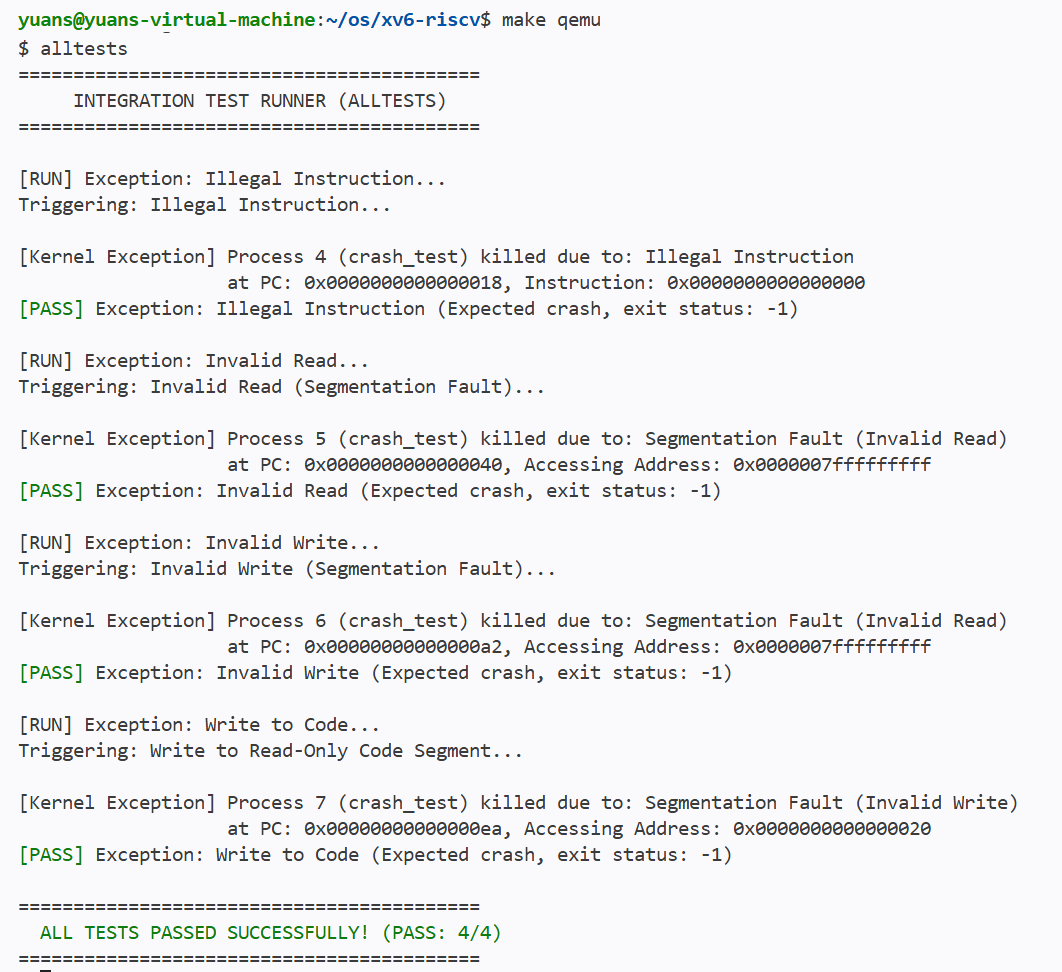
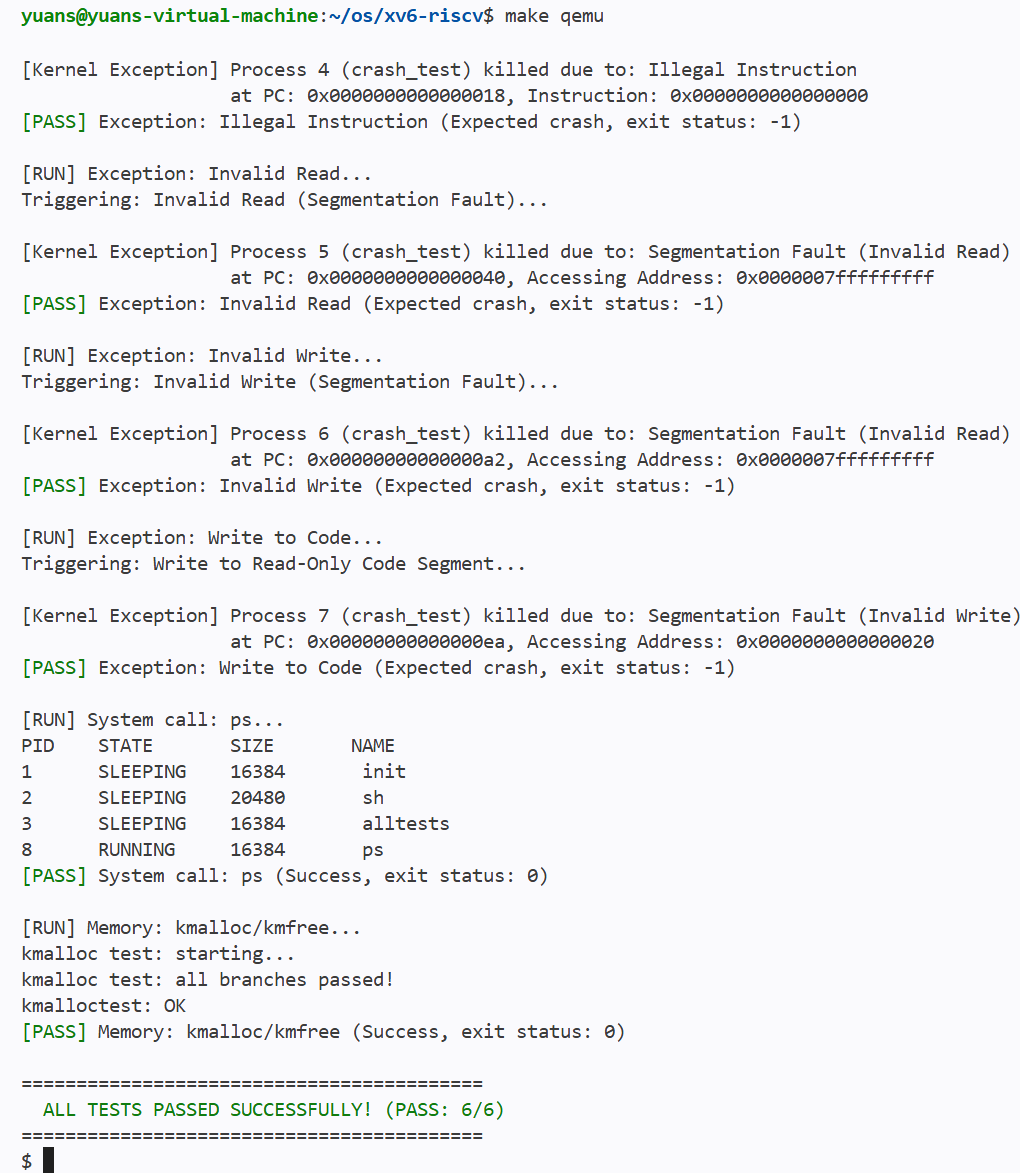
completed phase 2: implemented kmalloc/kmfree allocator and verified 6/6 tests

diff --git a/kernel/kalloc.c b/kernel/kalloc.c
@@ -80,3 +80,164 @@ kalloc(void)
     memset((char*)r, 5, PGSIZE); // fill with junk
   return (void*)r;
 }
+
+// 基于 First-Fit 的内核堆内存分配器 (kmalloc/kmfree)
+struct kmem_header {
+  uint64 size;              // 内存块大小（不含首部）
+  struct kmem_header *next; // 指向下一个块
+  int is_free;              // 是否空闲
+};
+
+struct {
+  struct spinlock lock;
+  struct kmem_header *head;
+} kmalloc_mem;
+
+// 初始化 kmalloc 自旋锁
+void
+kmalloc_init(void)
+{
+  initlock(&kmalloc_mem.lock, "kmalloc");
+  kmalloc_mem.head = 0;
+}
+
+void*
+kmalloc(uint64 size)
+{
+  if(size == 0)
+    return 0;
+
+  // 对齐到 8 字节
+  size = (size + 7) & ~7;
+
+  acquire(&kmalloc_mem.lock);
+
+  struct kmem_header *curr = kmalloc_mem.head;
+
+  // 1. 尝试在现有链表中寻找满足大小的空闲块
+  while(curr) {
+    if(curr->is_free && curr->size >= size) {
+      // 如果块足够大，将其拆分
+      if(curr->size >= size + sizeof(struct kmem_header) + 8) {
+        struct kmem_header *new_block = (struct kmem_header*)((char*)curr + sizeof(struct kmem_header) + size);
+        new_block->size = curr->size - size - sizeof(struct kmem_header);
+        new_block->is_free = 1;
+        new_block->next = curr->next;
+
+        curr->size = size;
+        curr->next = new_block;
+      }
+      curr->is_free = 0;
+      release(&kmalloc_mem.lock);
+      return (void*)(curr + 1); // 返回首部之后的实际数据地址
+    }
+    curr = curr->next;
+  }
+
+  // 2. 链表中无满足条件的块，调用页分配器申请一个新的 4KB 物理页
+  release(&kmalloc_mem.lock);
+  void *page = kalloc();
+  if(page == 0)
+    return 0;
+
+  acquire(&kmalloc_mem.lock);
+  struct kmem_header *new_page_block = (struct kmem_header*)page;
+  new_page_block->size = PGSIZE - sizeof(struct kmem_header);
+  new_page_block->is_free = 1;
+  new_page_block->next = 0;
+
+  // 挂载新页到链表头部
+  new_page_block->next = kmalloc_mem.head;
+  kmalloc_mem.head = new_page_block;
+
+  // 3. 重新对新申请的页空间进行拆分并分配
+  curr = new_page_block;
+  if(curr->size >= size + sizeof(struct kmem_header) + 8) {
+    struct kmem_header *new_block = (struct kmem_header*)((char*)curr + sizeof(struct kmem_header) + size);
+    new_block->size = curr->size - size - sizeof(struct kmem_header);
+    new_block->is_free = 1;
+    new_block->next = curr->next;
+
+    curr->size = size;
+    curr->next = new_block;
+  }
+  curr->is_free = 0;
+  release(&kmalloc_mem.lock);
+  return (void*)(curr + 1);
+}
+
+void
+kmfree(void *addr)
+{
+  if(addr == 0)
+    return;
+
+  struct kmem_header *header = (struct kmem_header*)addr - 1;
+
+  acquire(&kmalloc_mem.lock);
+  header->is_free = 1;
+
+  // 4. 合并物理上连续的相邻空闲块
+  struct kmem_header *curr = kmalloc_mem.head;
+  while(curr) {
+    if(curr->is_free && curr->next && curr->next->is_free) {
+      // 如果当前块末尾刚好是下一个块的起始，说明物理连续
+      if((char*)curr + sizeof(struct kmem_header) + curr->size == (char*)curr->next) {
+        curr->size += sizeof(struct kmem_header) + curr->next->size;
+        curr->next = curr->next->next;
+        continue; // 重新检查新的下一个块
+      }
+    }
+    curr = curr->next;
+  }
+  release(&kmalloc_mem.lock);
+}
+
+// 内核态单元测试：验证分配器的正确性与分支覆盖
+int
+kmalloctest_run(void)
+{
+  printf("kmalloc test: starting...\n");
+
+  // 1. 测试空指针安全
+  kmfree(0);
+
+  // 2. 测试基本分配、写入与 8 字节对齐
+  char *p1 = kmalloc(5); 
+  if(p1 == 0){
+    printf("test failed: p1 is null\n");
+    return -1;
+  }
+  memset(p1, 0xAA, 5); // 确保写入不崩溃
+
+  char *p2 = kmalloc(8);
+  if(p2 == 0){
+    printf("test failed: p2 is null\n");
+    return -1;
+  }
+
+  // 3. 测试 First-Fit 地址复用
+  uint64 addr_p1 = (uint64)p1;
+  kmfree(p1); // 释放 p1
+  
+  char *p3 = kmalloc(8); // 重新申请，应当复用刚刚释放的 p1 地址
+  if((uint64)p3 != addr_p1){
+    printf("test failed: failed to reuse freed address\n");
+    return -1;
+  }
+
+  // 4. 测试相邻空闲块合并
+  kmfree(p3);
+  kmfree(p2); // 释放相邻的 p2，此时 p3 和 p2 应合并
+
+  // 5. 测试跨页大内存申请 (大于 4KB，触发底层 kalloc)
+  char *p4 = kmalloc(5000); 
+  if(p4 == 0){
+    printf("test failed: p4 (large allocation) is null\n");
+    return -1;
+  }
+  kmfree(p4);
+
+  printf("kmalloc test: all branches passed!\n");
+  return 0;
+}

diff --git a/kernel/syscall.c b/kernel/syscall.c
@@ -102,6 +102,7 @@ extern uint64 sys_link(void);
 extern uint64 sys_mkdir(void);
 extern uint64 sys_close(void);
 extern uint64 sys_getprocs(void);
+extern uint64 sys_kmalloctest(void);
 
 // An array mapping syscall numbers from syscall.h
 // to the function that handles the system call.
@@ -128,6 +129,7 @@ static uint64 (*syscalls[])(void) = {
 [SYS_mkdir]   sys_mkdir,
 [SYS_close]   sys_close,
 [SYS_getprocs]   sys_getprocs,
+[SYS_kmalloctest] sys_kmalloctest,
 };
 
 void

diff --git a/user/alltests.c b/user/alltests.c
@@ -15,7 +15,7 @@ struct test_case tests[] = {
   { "Exception: Invalid Write", "crash_test", {"crash_test", "3", 0}, -1 },
   { "Exception: Write to Code", "crash_test", {"crash_test", "4", 0}, -1 },
   { "System call: ps", "ps", {"ps", 0}, 0 },
-
+  { "Memory: kmalloc/kmfree", "kmalloctest", {"kmalloctest", 0}, 0 },
   // { "Official: usertests", "usertests", {"usertests", 0}, 0 }
 };
 

diff --git a/kernel/main.c b/kernel/main.c
@@ -17,6 +17,7 @@ main()
     printf("xv6 kernel is booting\n");
     printf("\n");
     kinit();         // physical page allocator
+    kmalloc_init();  // Kernel Byte-level Heap Allocator // phase2 add
     kvminit();       // create kernel page table
     kvminithart();   // turn on paging
     procinit();      // process table

diff --git a/kernel/defs.h b/kernel/defs.h
@@ -63,6 +63,9 @@ void            ramdiskrw(struct buf*);
 void*           kalloc(void);
 void            kfree(void *);
 void            kinit(void);
+void            kmalloc_init(void); 
+void*           kmalloc(uint64);   
+void            kmfree(void*);   
 
 // log.c
 void            initlog(int, struct superblock*);

diff --git a/user/kmalloctest.c b/user/kmalloctest.c
@@ -1,0 +1,13 @@
+#include "kernel/types.h"
+#include "user/user.h"
+
+int
+main(int argc, char *argv[])
+{
+  if(kmalloctest() < 0){
+    printf("kmalloctest: failed\n");
+    exit(1);
+  }
+  printf("kmalloctest: OK\n");
+  exit(0);
+}

diff --git a/user/user.h b/user/user.h
@@ -30,6 +30,7 @@ char* sbrk(int);
 int sleep(int);
 int uptime(void);
 int getprocs(int, struct uproc*);
+int kmalloctest(void);
 
 // ulib.c
 int stat(const char*, struct stat*);

diff --git a/kernel/sysproc.c b/kernel/sysproc.c
@@ -135,3 +135,10 @@ sys_getprocs(void)
 
   return count; 
 }
+
+uint64
+sys_kmalloctest(void)
+{
+  extern int kmalloctest_run(void);
+  return kmalloctest_run();
+}

diff --git a/kernel/syscall.h b/kernel/syscall.h
@@ -21,3 +21,4 @@
 #define SYS_mkdir  20
 #define SYS_close  21
 #define SYS_getprocs 22
+#define SYS_kmalloctest 23

diff --git a/docs/process.md b/docs/process.md
@@ -284,7 +284,7 @@ graph TB
 - 构建 Windows 11 (VSCode) + SSH 远程连接 + Ubuntu 22.04 虚拟机的开发架构。
 - 完成 RISC-V 交叉编译器（gcc-riscv64）、调试器与 QEMU 模拟器的配置。
 - 初始化 GitHub 仓库 https://github.com/yuuichi33/OS 并完成首次推送。
-- 新建并切换至独立开发分支 dev，强制回滚（git reset --hard）至 2022 年底稳定提交 74c1eba，避开后续版本对 QEMU >= 7.2 的编译限制，确保了本地兼容性。
+- 新建并切换至独立开发分支 dev，强制回滚至 2022 年底稳定提交 74c1eba，避开后续版本对 QEMU >= 7.2 的编译限制，确保兼容性。
 - 通过 make qemu 成功编译并启动系统。
 - 在模拟器中全量跑通内核测试集 usertests，测试结果为 ALL TESTS PASSED。
 ![alt text](figs/fig1.png)
@@ -304,6 +304,12 @@ graph TB
 - 用户态 ps 命令
   - 编写 ps.c 工具，打印进程状态。
   - 将 ps 接入测试框架 alltests，测试结果全量通过（PASS: 5/5）。
+- 设计并实现内核动态内存分配器（kmalloc/kmfree）
+  - 基于首部链表（First-Fit Header）实现。申请时自动进行 8 字节对齐并按需拆分空闲块；无可用块时，向底层页分配器索要全新物理页。
+  - 在 kmfree 中实现了物理连续空闲块的自动检测与合并，有效防止了内存碎片的产生。
+  - 使用独立的自旋锁保护分配链表，保证了多 CPU 并发分配下的数据安全。
+  - 编写 kmalloctest.c 单元测试，并将其接入 alltests 集成测试框架，测试顺利通过（`PASS: 6/6`）。
+![alt text](figs/fig2.png)
 
 
 ## 参考资料

diff --git a/docs/devlog/phase2_sc.md b/docs/devlog/phase2_sc.md
@@ -43,3 +43,13 @@ if(r_scause() == 8){
     - **`12`**：Instruction page fault（指令缺页/非法执行，尝试执行无权限内存中的代码）
     - **`13`**：Load page fault（读内存段错误，尝试读取无权限或未映射的地址）
     - **`15`**：Store/AMO page fault（写内存段错误，尝试向只读或未映射的地址写入数据，比如写空指针）
+
+### 动态内存分配器
+
+基于 xv6 现有的物理页分配器（kalloc/kfree），在其之上构建一个内核级字节级动态内存分配器 kmalloc 与 kmfree。
+
+- 采用首部链表法（First-Fit Header-based Allocator）：
+- 每次申请，内核会寻找足够大的空闲块。如果空闲块过大，则进行拆分。
+- 如果没有空闲块，则调用页分配器 kalloc() 申请一个全新的 4KB 物理页，将其格式化为一个大空闲块并挂载到链表上。
+- 释放时，将块标记为空闲，并自动合并相邻的空闲内存块以防碎片化。
+- 整个过程通过一个自旋锁保护，确保多核安全。
